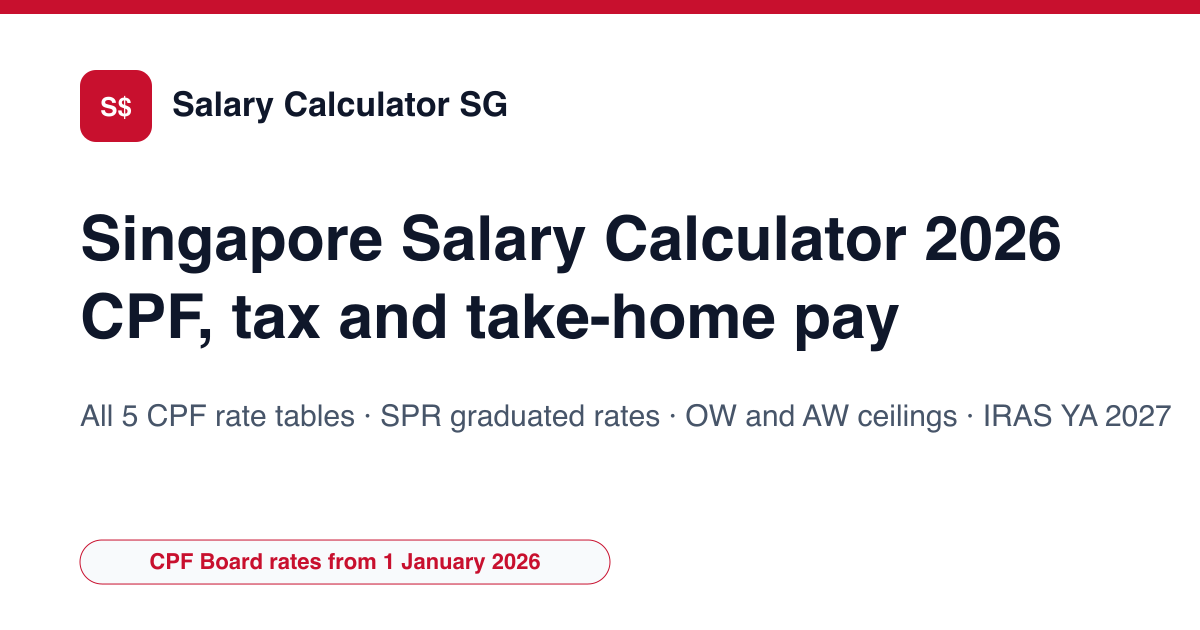
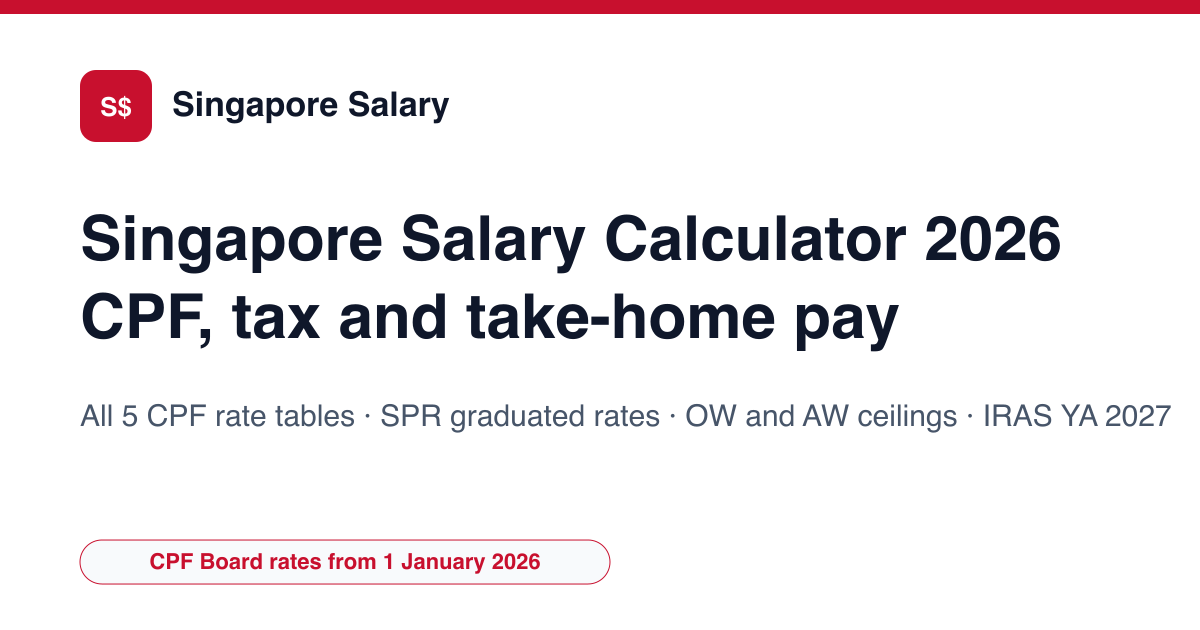
Nouveau domaine : salarycalculator.sg devient singaporesalary.com (adresse, nom du site, contact, images de partage)

Changed region(s): [[0.1542, 0.1508, 0.4317, 0.2111]]

diff --git a/src/data/site-config.ts b/src/data/site-config.ts
@@ -1,6 +1,6 @@
 /** Configuration centrale du site (générée par new-site.py). */
-export const SITE_URL = 'https://salarycalculator.sg';
-export const SITE_NAMES: Record<string, string> = {"en": "Salary Calculator SG"};
+export const SITE_URL = 'https://singaporesalary.com';
+export const SITE_NAMES: Record<string, string> = {"en": "Singapore Salary"};
 export const LANG_TAGS: Record<string, string> = {"en": "en-SG"};
 export const OG_LOCALES: Record<string, string> = {"en": "en_SG"};
 export const LOCALE_TAG = 'en-SG';
@@ -16,7 +16,7 @@ export const AUTHOR_DESC: Record<string, string> = {"en": "Radif Partners publis
  *  themes reellement traites par le site, pas une liste de mots-cles : un sujet
  *  declare ici sans page qui le couvre est une declaration fausse. */
 export const KNOWS_ABOUT: Record<string, string[]> = {"en": ["Central Provident Fund contributions", "Singapore personal income tax", "Payroll and employer costs in Singapore", "Singapore Permanent Resident CPF graduated rates", "Personal finance"]};
-export const CONTACT_EMAIL = 'contact@salarycalculator.sg';
+export const CONTACT_EMAIL = 'contact@singaporesalary.com';
 export const THEME_COLOR = '#C8102E';
 export const LOGO_SYMBOL = 'S$';
 export const BING_VERIFY_CODE = '';
